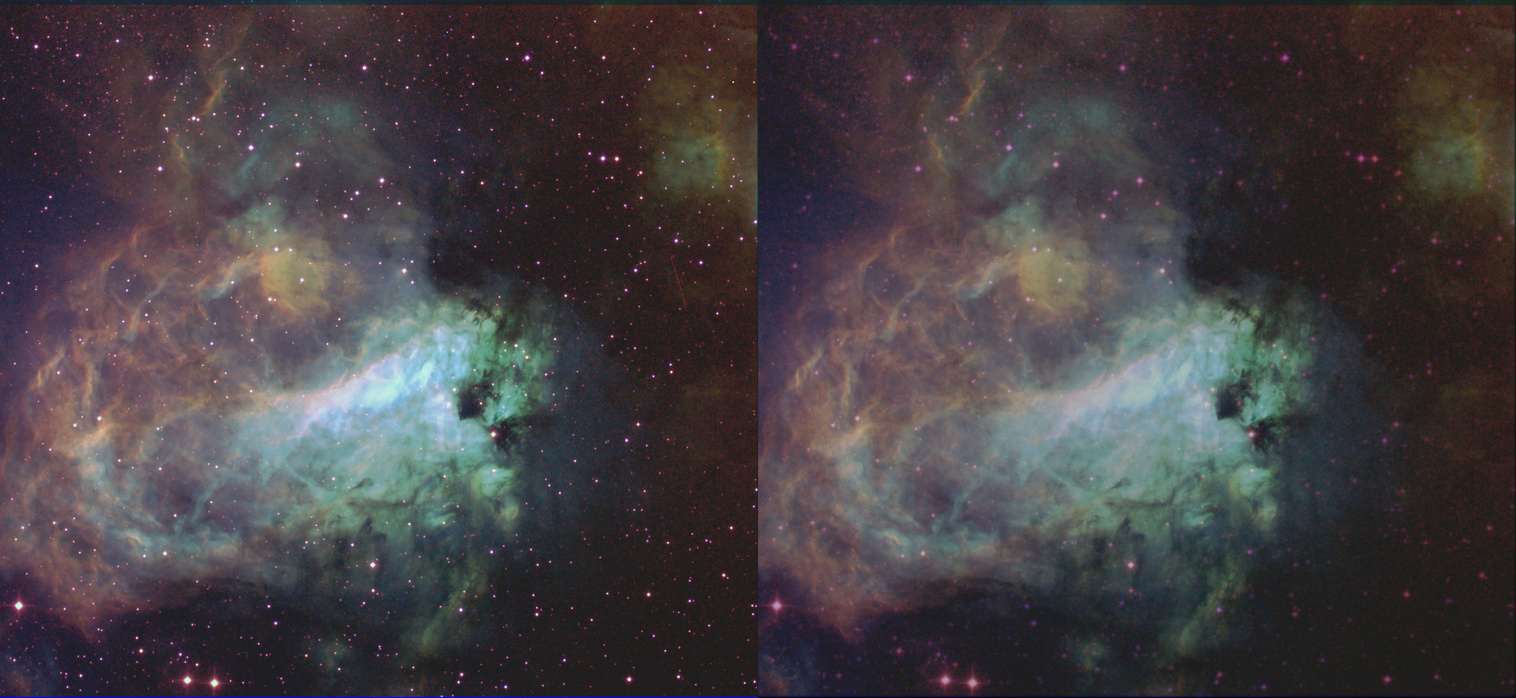
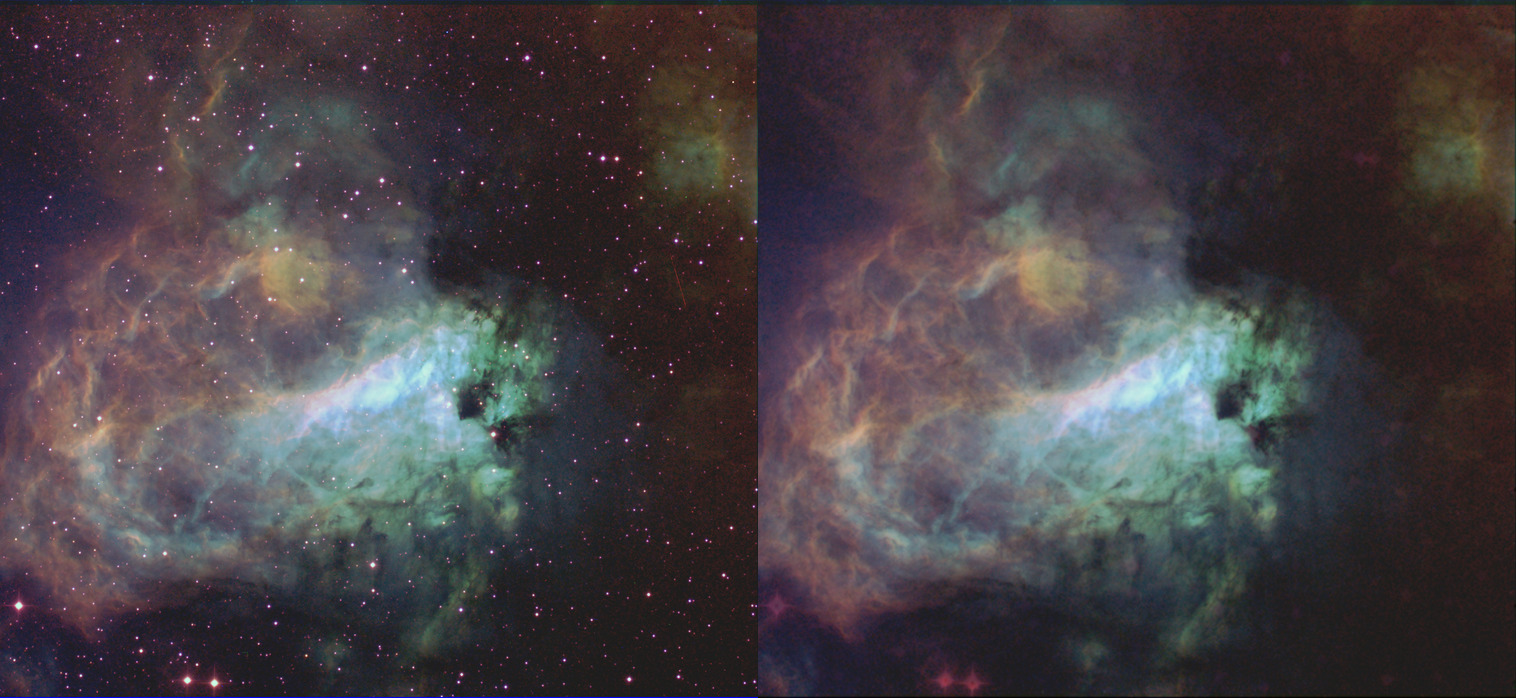
added new model and weights

diff --git a/removestars.py b/removestars.py
@@ -6,17 +6,17 @@ import tensorflow as tf
 tf.compat.v1.logging.set_verbosity(tf.compat.v1.logging.ERROR)
 
 import model
-import time
-from PIL import Image, ImageFilter,ImageEnhance
-import random 
+from PIL import Image
 import numpy as np
 import sys
 from tqdm import tqdm
 import math
 
-IMG_SIZE = 1024
+
+IMG_SIZE = 512
+MODEL_SIZE = 1024
 all_outputs = 1
-pad_width = 24
+pad_width = 2
 total_steps = 0
 progress_bar = None
 current_progress= 0
@@ -27,63 +27,69 @@ if len(args) != 3:
   print ('Argument List:', str(sys.argv)) 
   exit(1)
 
+def process_tile(channel,i,j,pad_width,model,output_image):
+  corp_rect = (i*IMG_SIZE,j*IMG_SIZE,i*IMG_SIZE+IMG_SIZE,j*IMG_SIZE+IMG_SIZE)
+  current_tile = channel.crop(corp_rect)
+  current_tile = current_tile.convert('L')
+  blank_image =  current_tile.copy()  
+  current_tile = current_tile.resize((IMG_SIZE-pad_width*2,IMG_SIZE-pad_width*2))
+  blank_image.paste(current_tile,(pad_width,pad_width))
+  blank_image = blank_image.resize((MODEL_SIZE,MODEL_SIZE))
+  blank_image  = np.asarray(blank_image,dtype="float16").reshape(1,MODEL_SIZE,MODEL_SIZE)/512
+  predicted_section = model.predict(blank_image,verbose=0)      
+  predicted_section = predicted_section.reshape(MODEL_SIZE,MODEL_SIZE)*1024
+  predicted_section = Image.fromarray(predicted_section).convert('L')
+  predicted_section =  predicted_section.resize((IMG_SIZE,IMG_SIZE))            
+  predicted_section = predicted_section.crop((pad_width,pad_width,IMG_SIZE-pad_width,IMG_SIZE-pad_width))
+  predicted_section = predicted_section.resize((IMG_SIZE,IMG_SIZE))  
+  output_image.paste(predicted_section, (i*IMG_SIZE,j*IMG_SIZE),  mask=None)
 
-def process_channel(channel,pad_width,input_image_size):
+def process_channel(channel,pad_width,input_image_size):    
     global progress_bar,step_size,current_progress
-    output_image =  Image.new('L', input_image_size)   
+    output_image =  Image.new('L', input_image_size)
     for i in range(0,int(channel.size[0]/IMG_SIZE)):
-        for j in range(0,int(channel.size[1]/IMG_SIZE)):         
-            corp_rect = (i*IMG_SIZE,j*IMG_SIZE,i*IMG_SIZE+IMG_SIZE,j*IMG_SIZE+IMG_SIZE)
-            current_tile = channel.crop(corp_rect)
-            current_tile = current_tile.convert('L')
-            blank_image =  current_tile.copy()  
-            current_tile = current_tile.resize((IMG_SIZE-pad_width*2,IMG_SIZE-pad_width*2))
-            blank_image.paste(current_tile,(pad_width,pad_width))
-            blank_image  = np.asarray(blank_image,dtype="float16").reshape(1,IMG_SIZE,IMG_SIZE)/255
-            predicted_section = G2.predict(blank_image,verbose=0)            
-            predicted_section = predicted_section.reshape(IMG_SIZE,IMG_SIZE)*255 
-            predicted_section = Image.fromarray(predicted_section).convert('L')            
-            predicted_section = predicted_section.crop((pad_width,pad_width,IMG_SIZE-pad_width,IMG_SIZE-pad_width))
-            predicted_section = predicted_section.resize((IMG_SIZE,IMG_SIZE))   
-            output_image.paste(predicted_section, (i*IMG_SIZE,j*IMG_SIZE),  mask=None)          
-            progress_bar.update(step_size) 
-            current_progress = current_progress + step_size      
+        for j in range(0,int(channel.size[1]/IMG_SIZE)):                   
+            process_tile(channel,i,j,pad_width,G2,output_image)
+            current_progress = current_progress + step_size
+            if current_progress <= 100:
+                progress_bar.update(round(step_size,2))
     return output_image
 
-G2 = model.Generator()
-G2.load_weights("weights/weights")
+try:
+  G2 = model.Generator()
+  G2.load_weights("weights/weights")
 
-source_image = Image.open(args[1])
-mode = source_image.mode
-size = source_image.size
-max_dimension = max(size)
+  source_image = Image.open(args[1])
+  mode = source_image.mode
+  size = source_image.size
+  max_dimension = max(size)
 
-a,b = divmod(max_dimension,1024)
-if b > 0 :
-  max_dimension = (a+1)*1024
- 
-input_image = source_image.crop((0,0,max_dimension,max_dimension))
-progress_bar = tqdm(total=100)
+  a,b = divmod(max_dimension,IMG_SIZE)
+  if b > 0 :
+    max_dimension = (a+1)*IMG_SIZE
+  
+  input_image = source_image.crop((0,0,max_dimension,max_dimension))
+  progress_bar = tqdm(total=100,leave=True)
 
-if mode == 'L':  
-  total_steps = math.ceil((max_dimension/1024)**2) 
-  step_size = math.ceil((1/total_steps)*100)  
-  output = process_channel(input_image,pad_width,input_image.size)
-  output = output.crop((0,0,size[0],size[1]))
-  output.save(args[2])
-  progress_bar.update(100-current_progress)
-elif mode == 'RGB' or mode == 'RGBA':
-  total_steps = int(3*(max_dimension/1024)**2)
-  step_size = int((1/total_steps)*100)  
-  channels = Image.Image.split(input_image)
-  all_outputs  = []
-  for channel in channels[0:3]:
-    channel_output = process_channel(channel,pad_width,input_image.size)
-    channel_output = channel_output.crop((0,0,size[0],size[1]))
-    all_outputs.append(channel_output) 
-  output =Image.merge('RGB', (all_outputs[0],all_outputs[1],all_outputs[2]))
-  output.save(args[2])
-  progress_bar.update(100-current_progress)  
-else:
-  print("Invalid mode for input image:", mode)
-  print("Only grayscale(L) and RGB(RGBA) images are supported.")
+  if mode == 'L':  
+    total_steps = math.ceil((max_dimension/IMG_SIZE)**2) 
+    step_size = (1/total_steps)*100
+    output = process_channel(input_image,pad_width,input_image.size)
+    output = output.crop((0,0,size[0],size[1]))
+    output.save(args[2])
+  elif mode == 'RGB' or mode == 'RGBA':
+    total_steps = int(3*(max_dimension/IMG_SIZE)**2)
+    step_size = (1/total_steps)*100 
+    channels = Image.Image.split(input_image)
+    all_outputs  = []
+    for channel in channels[0:3]:
+      channel_output = process_channel(channel,pad_width,input_image.size)
+      channel_output = channel_output.crop((0,0,size[0],size[1]))
+      all_outputs.append(channel_output) 
+    output =Image.merge('RGB', (all_outputs[0],all_outputs[1],all_outputs[2]))
+    output.save(args[2])
+  else:
+    print("Invalid mode for input image:", mode)
+    print("Only grayscale(L) and RGB(RGBA) images are supported.")
+except Exception as e:
+  print(e)

diff --git a/model.py b/model.py
@@ -3,74 +3,58 @@ import tensorflow as tf
 IMG_SIZE = 1024
 OUTPUT_CHANNELS = 1
 
-def downsample(filters, size, apply_batchnorm=True):
+def downsample(filters, size, apply_batchnorm=True,strides = 2,name=''):
   initializer = tf.random_normal_initializer(0., 0.02)
-
-  result = tf.keras.Sequential()
-  result.add(
-      tf.keras.layers.Conv2D(filters, size, strides=2, padding='same',
-                             kernel_initializer=initializer, use_bias=False))
+  result = tf.keras.Sequential(name=name)
+  result.add(tf.keras.layers.Conv2D(filters, size, strides=strides, padding='same',kernel_initializer=initializer, use_bias=False))
 
   if apply_batchnorm:
     result.add(tf.keras.layers.BatchNormalization())
 
   result.add(tf.keras.layers.LeakyReLU())
-
   return result
 
-def upsample(filters, size, apply_dropout=False):
+def upsample(filters, size, apply_dropout=False,strides = 2,name=''):
   initializer = tf.random_normal_initializer(0., 0.02)
-
-  result = tf.keras.Sequential()
-  result.add(
-    tf.keras.layers.Conv2DTranspose(filters, size, strides=2,
-                                    padding='same',
-                                    kernel_initializer=initializer,
-                                    use_bias=False))
+  result = tf.keras.Sequential(name=name)
+  result.add(tf.keras.layers.Conv2DTranspose(filters, size, strides=strides,padding='same',
+                                    kernel_initializer=initializer,use_bias=False))
 
   result.add(tf.keras.layers.BatchNormalization())
-
   if apply_dropout:
-      result.add(tf.keras.layers.Dropout(0.5))
-        
+      result.add(tf.keras.layers.Dropout(0.5))        
   result.add(tf.keras.layers.ReLU())
-
   return result
 
 def Generator():
-    
   inputs = tf.keras.layers.Input(shape=[IMG_SIZE, IMG_SIZE, OUTPUT_CHANNELS])
 
   down_stack = [
-    downsample(64, 4, apply_batchnorm=False),  # (batch_size, 128, 128, 64)
-    downsample(128, 4),  # (batch_size, 64, 64, 128)
-    downsample(256, 4),  # (batch_size, 32, 32, 256)
-    downsample(512, 4),  # (batch_size, 16, 16, 512)
-    downsample(512, 4),  # (batch_size, 8, 8, 512)
-    downsample(512, 4),  # (batch_size, 4, 4, 512)
-    downsample(512, 4),  # (batch_size, 2, 2, 512)
-    downsample(512, 4),  # (batch_size, 1, 1, 512)
+    downsample(16, 5, apply_batchnorm=False,strides = 1, name='gd_1'),  # (batch_size, 128, 128, 64)
+    downsample(32, 5,name='gd_2'),  # (batch_size, 64, 64, 128)
+    downsample(64, 5,name='gd_3'),  # (batch_size, 32, 32, 256)
+    downsample(128, 5,name='gd_4'),  # (batch_size, 16, 16, 512)
+    downsample(256, 5,name='gd_5'),  # (batch_size, 8, 8, 512)
+    downsample(256, 5,name='gd_6'),  # (batch_size, 4, 4, 512)
+    downsample(512, 5,name='gd_7'),  # (batch_size, 2, 2, 512)
+    downsample(512, 5,name='gd_8'),  # (batch_size, 1, 1, 512)
   ]
 
   up_stack = [
-    upsample(512, 4, apply_dropout=True),  # (batch_size, 2, 2, 1024)
-    upsample(512, 4, apply_dropout=True),  # (batch_size, 4, 4, 1024)
-    upsample(512, 4, apply_dropout=True),  # (batch_size, 8, 8, 1024)
-    upsample(512, 4),  # (batch_size, 16, 16, 1024)
-    upsample(256, 4),  # (batch_size, 32, 32, 512)
-    upsample(128, 4),  # (batch_size, 64, 64, 256)
-    upsample(64, 4),  # (batch_size, 128, 128, 128)
+    upsample(512, 5, apply_dropout=True,name='gu_1'),  # (batch_size, 2, 2, 1024)
+    upsample(256, 5, apply_dropout=True,name='gu_2'),  # (batch_size, 4, 4, 1024)
+    upsample(256, 5, apply_dropout=True,name='gu_3'),  # (batch_size, 8, 8, 1024)      
+    upsample(128, 5,name='gu_4'),  # (batch_size, 16, 16, 1024)
+    upsample(64, 5,name='gu_5'),  # (batch_size, 32, 32, 512)
+    upsample(32, 5,name='gu_6'),  # (batch_size, 64, 64, 256)
+    upsample(16, 5,name='gu_7'),  # (batch_size, 128, 128, 128)
   ]
 
   initializer = tf.random_normal_initializer(0., 0.02)
-  last = tf.keras.layers.Conv2DTranspose(OUTPUT_CHANNELS, 4,
-                                         strides=2,
-                                         padding='same',
-                                         kernel_initializer=initializer,
-                                         activation='tanh')  # (batch_size, 256, 256, 3)
+  last = tf.keras.layers.Conv2DTranspose(OUTPUT_CHANNELS, 4,strides=1,padding='same',
+                                         kernel_initializer=initializer,activation='relu')  # (batch_size, 256, 256, 3)
 
   x = inputs
-
   # Downsampling through the model
   skips = []
   for down in down_stack:
@@ -79,13 +63,10 @@ def Generator():
 
   skips = reversed(skips[:-1])
 
-  # Upsampling and establishing the skip connections
   for up, skip in zip(up_stack, skips):
-    #print(up_stack,skips)
     x = up(x)
     x = tf.keras.layers.Concatenate()([x, skip])
 
   x = last(x)
 
   return tf.keras.Model(inputs=inputs, outputs=x)
-
